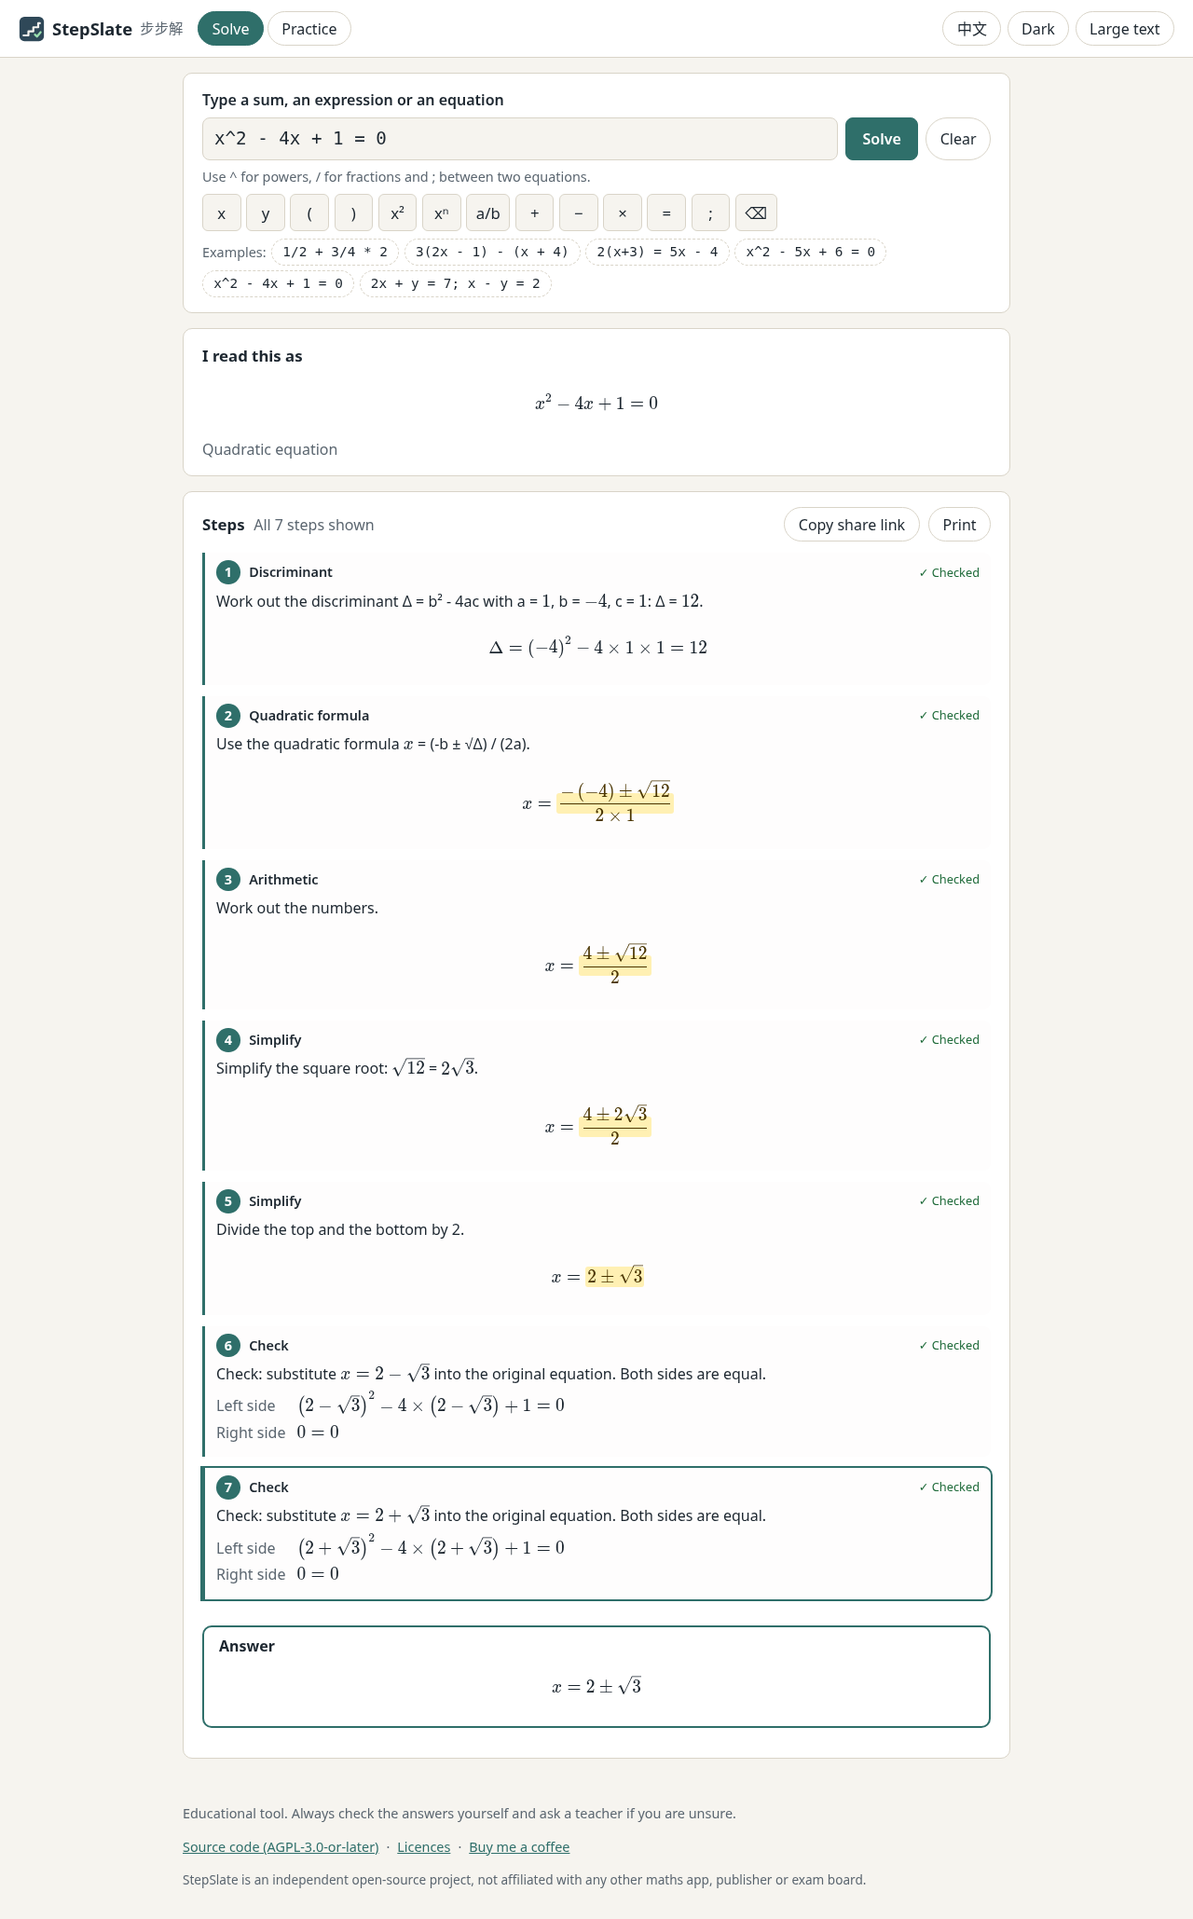
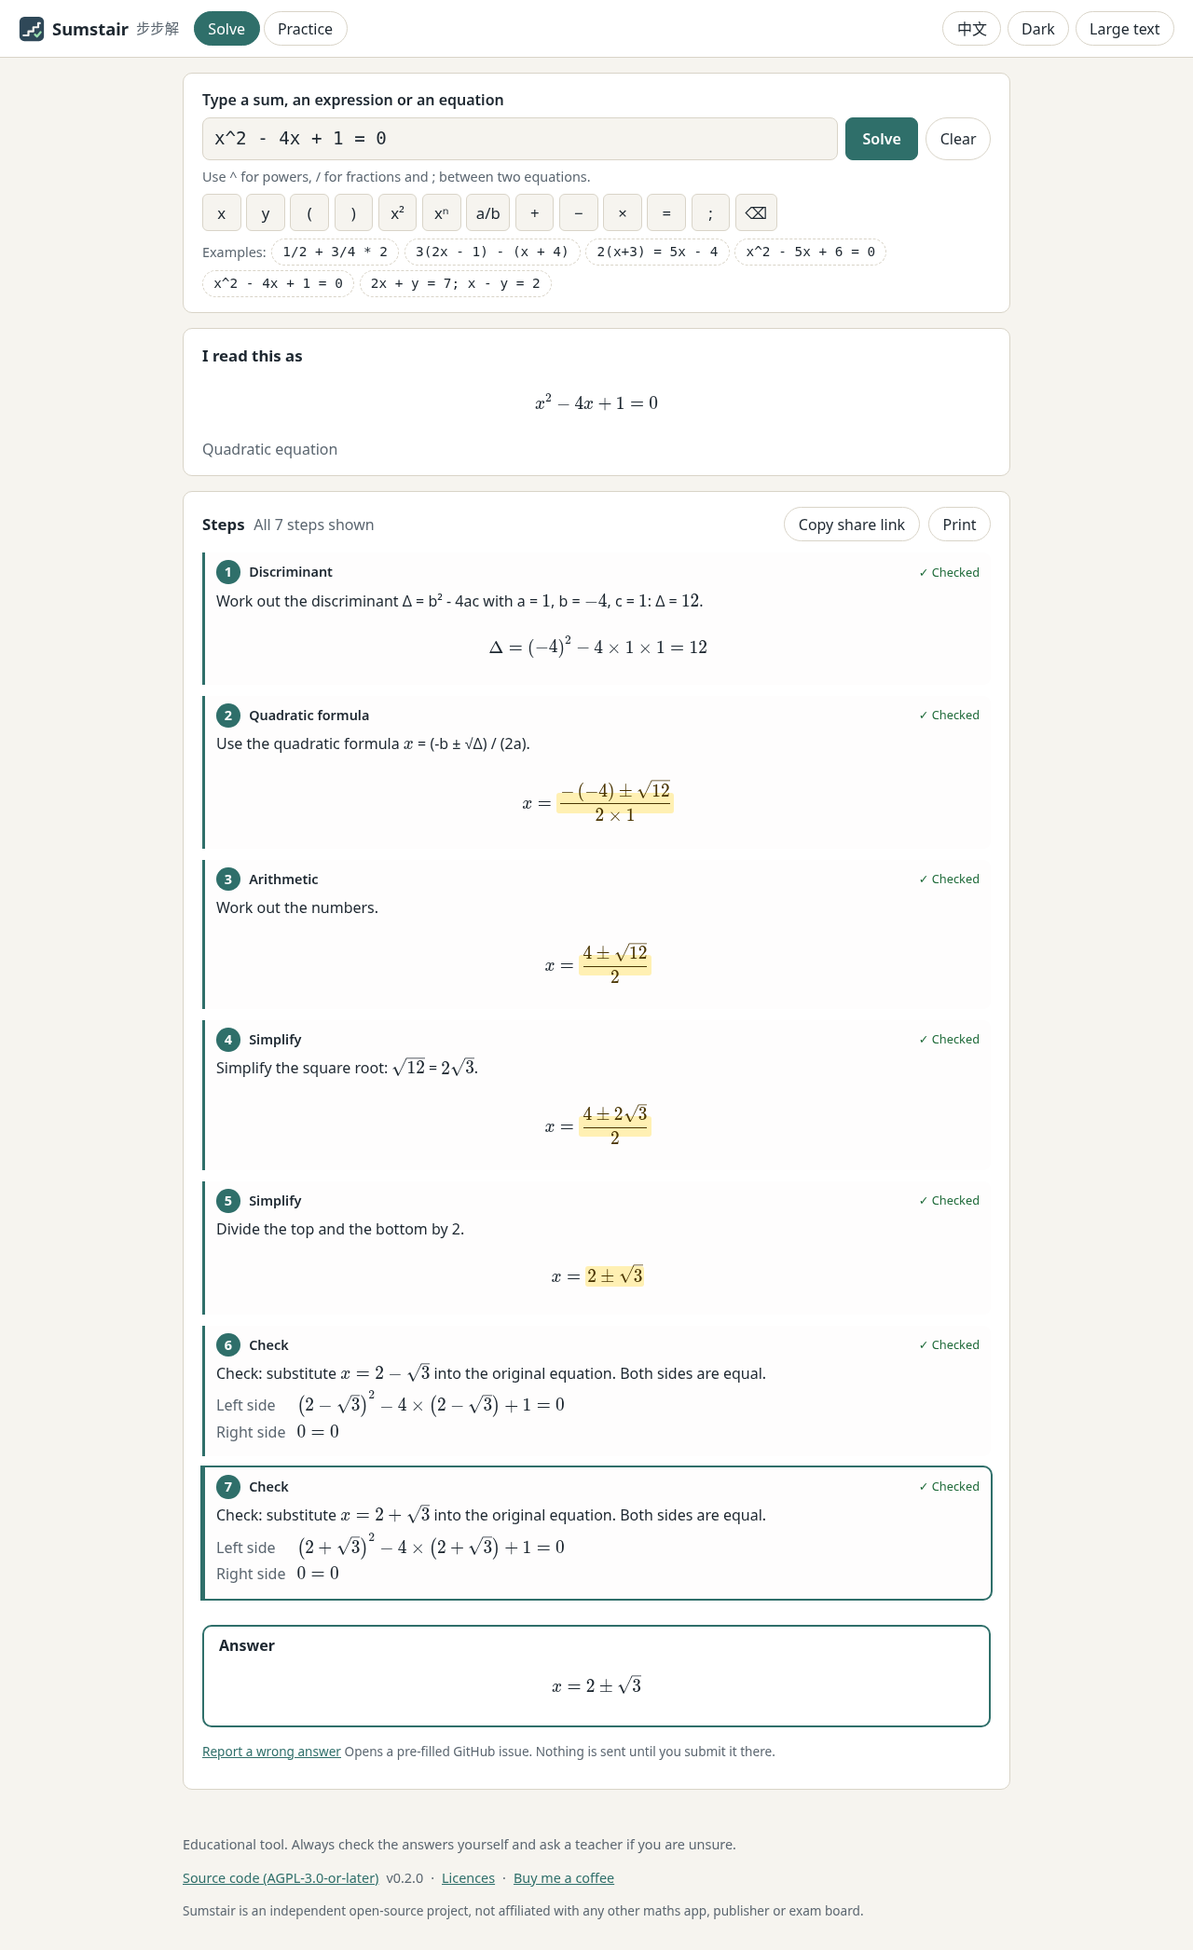
Rename StepSlate to Sumstair (步步解 unchanged)
An unrelated, announced app uses the name StepSlate, so the English name
changes to Sumstair. Renamed: repository and Pages URLs, packages
(@sumstair/*), web title, manifest, link previews, icon label, report-issue
URL, footer source link, environment variables (SUMSTAIR_*), browser storage
keys, release zip name, hygiene allowlist and all documentation. The README
explains the rename in English and Chinese. Screenshot regenerated.

diff --git a/packages/web/vite.config.ts b/packages/web/vite.config.ts
@@ -22,7 +22,7 @@ function sourceLink(): Plugin {
   const tag = `v${rootPkg.version}`;
   const url = `${rootPkg.repository.url.replace(/\.git$/, '')}/tree/${tag}`;
   return {
-    name: 'stepslate-source-link',
+    name: 'sumstair-source-link',
     transformIndexHtml(html) {
       const linked = html.replace(/(id="source-link"\s+href=")[^"]*(")/, `$1${url}$2`);
       const versioned = linked.replace(
@@ -55,7 +55,7 @@ function listFiles(dir: string): string[] {
 }
 
 /**
- * KaTeX font families that StepSlate's output actually uses (numbers, italic letters,
+ * KaTeX font families that Sumstair's output actually uses (numbers, italic letters,
  * brackets, fractions, roots, ±, Δ). Measured by rendering every golden problem and the
  * practice view; the e2e test "every KaTeX font the solver uses is pre-cached" keeps
  * this list honest. Other families stay in the build and load on demand when online.
@@ -67,7 +67,7 @@ const KATEX_FONTS_USED = /KaTeX_(Main-Regular|Math-Italic|Size[1-4]-Regular)-/;
  * - KaTeX's .ttf and .woff fonts: every browser that can run the service worker uses
  *   the .woff2 files (listed first in KaTeX's CSS), so the older formats would only
  *   triple the download for students on mobile data;
- * - .woff2 families that StepSlate never uses (see KATEX_FONTS_USED);
+ * - .woff2 families that Sumstair never uses (see KATEX_FONTS_USED);
  * - the social preview image, which only link-preview crawlers fetch.
  */
 function precached(file: string): boolean {
@@ -82,17 +82,17 @@ function precached(file: string): boolean {
  */
 function offline(): Plugin {
   return {
-    name: 'stepslate-offline',
+    name: 'sumstair-offline',
     apply: 'build',
     generateBundle(_opts, bundle) {
       this.emitFile({
         type: 'asset',
-        fileName: 'licenses/StepSlate-LICENSE.txt',
+        fileName: 'licenses/Sumstair-LICENSE.txt',
         source: readFileSync(join(here, '../../LICENSE'), 'utf8'),
       });
       const files = [
         ...Object.keys(bundle),
-        'licenses/StepSlate-LICENSE.txt',
+        'licenses/Sumstair-LICENSE.txt',
         ...listFiles(publicDir).map((p) => relative(publicDir, p).split('\\').join('/')),
       ]
         .filter((f) => !f.endsWith('.map') && precached(f))
@@ -108,7 +108,7 @@ function offline(): Plugin {
       const urls = ['./', ...unique.map((f) => `./${f}`)];
       const sw = `// SPDX-License-Identifier: AGPL-3.0-or-later
 // Generated at build time: pre-caches the whole site so it works offline.
-const CACHE = 'stepslate-${version}';
+const CACHE = 'sumstair-${version}';
 const URLS = ${JSON.stringify(urls)};
 self.addEventListener('install', (event) => {
   event.waitUntil(caches.open(CACHE).then((c) => c.addAll(URLS)).then(() => self.skipWaiting()));
@@ -116,7 +116,7 @@ self.addEventListener('install', (event) => {
 self.addEventListener('activate', (event) => {
   event.waitUntil(
     caches.keys()
-      .then((keys) => Promise.all(keys.filter((k) => k.startsWith('stepslate-') && k !== CACHE).map((k) => caches.delete(k))))
+      .then((keys) => Promise.all(keys.filter((k) => k.startsWith('sumstair-') && k !== CACHE).map((k) => caches.delete(k))))
       .then(() => self.clients.claim()),
   );
 });
@@ -144,8 +144,8 @@ export default defineConfig({
   base: './',
   plugins: [sourceLink(), offline()],
   define: {
-    __STEPSLATE_REPO__: JSON.stringify(rootPkg.repository.url.replace(/\.git$/, '')),
-    __STEPSLATE_VERSION__: JSON.stringify(`v${rootPkg.version}`),
+    __SUMSTAIR_REPO__: JSON.stringify(rootPkg.repository.url.replace(/\.git$/, '')),
+    __SUMSTAIR_VERSION__: JSON.stringify(`v${rootPkg.version}`),
   },
   build: {
     target: 'es2022',

diff --git a/packages/core/src/i18n/messages.ts b/packages/core/src/i18n/messages.ts
@@ -1,6 +1,6 @@
 // SPDX-License-Identifier: AGPL-3.0-or-later
 // User-facing strings for the engine (errors, warnings, step explanations).
-// Written originally for StepSlate. Placeholders use {name}. Every key must exist in
+// Written originally for Sumstair. Placeholders use {name}. Every key must exist in
 // both languages (enforced by i18n.test.ts).
 
 export type Lang = 'en' | 'zh-HK';
@@ -9,8 +9,8 @@ export const en = {
   // ---- parse errors ----
   'parse.empty': 'Type a problem first, for example 2(x+3)=5x-4.',
   'parse.too-long': 'That input is too long (maximum {max} characters).',
-  'parse.too-complex': 'That problem is too complex for StepSlate (maximum {max} parts).',
-  'parse.unexpected-char': 'StepSlate does not understand the character "{char}".',
+  'parse.too-complex': 'That problem is too complex for Sumstair (maximum {max} parts).',
+  'parse.unexpected-char': 'Sumstair does not understand the character "{char}".',
   'parse.unexpected-token': 'Unexpected "{text}" here.',
   'parse.unexpected-end': 'The input ends too early: something is missing after the last operator.',
   'parse.unclosed-paren': 'A bracket "(" is never closed.',
@@ -71,10 +71,10 @@ export const en = {
   'unsupported.exponent-arith':
     'In calculations, exponents must be whole numbers from -{max} to {max}. With unknowns, exponents can be 0 to 4.',
   'unsupported.degree':
-    'The degree is too high. StepSlate simplifies up to degree {max} and solves equations up to degree 2.',
+    'The degree is too high. Sumstair simplifies up to degree {max} and solves equations up to degree 2.',
   'unsupported.equation-vars':
     'One equation with {n} unknowns cannot be solved on its own. Separate two equations with ";".',
-  'unsupported.system': 'StepSlate solves systems of two linear equations in two unknowns.',
+  'unsupported.system': 'Sumstair solves systems of two linear equations in two unknowns.',
   'unsupported.no-unknown':
     'This equation has no unknown to solve for. To work out a calculation, type it without "=".',
   'unsupported.too-many-vars': 'Simplifying is supported for at most two unknowns.',
@@ -85,9 +85,9 @@ export const en = {
   'command.simplify-needs-expression':
     '"simplify" works on an expression without "=". To solve an equation, type it without "simplify" or use "solve".',
   'error.div-zero': 'The question divides by zero, which is undefined.',
-  'error.too-large': 'The numbers grow too large for StepSlate. Please try a smaller problem.',
+  'error.too-large': 'The numbers grow too large for Sumstair. Please try a smaller problem.',
   'error.unverified':
-    'StepSlate could not verify the next step, so it stops here instead of showing an unchecked step. Please report this problem.',
+    'Sumstair could not verify the next step, so it stops here instead of showing an unchecked step. Please report this problem.',
   // ---- T2 polynomials ----
   'poly.power-to-product': 'Write the power as a repeated product: {before} = {after}.',
   'poly.distribute': 'Multiply each term in the bracket by {factor}.',

diff --git a/packages/web/index.html b/packages/web/index.html
@@ -10,13 +10,13 @@
     <meta name="referrer" content="no-referrer" />
     <meta
       name="description"
-      content="StepSlate: free, offline step-by-step maths solver. Every step is checked by an exact verifier. Educational use only."
+      content="Sumstair: free, offline step-by-step maths solver. Every step is checked by an exact verifier. Educational use only."
     />
     <meta name="theme-color" content="#2f4858" />
     <!-- Link previews. The build turns ./ URLs into absolute ones (package.json "homepage"). -->
     <meta property="og:type" content="website" />
-    <meta property="og:site_name" content="StepSlate · 步步解" />
-    <meta property="og:title" content="StepSlate · 步步解 — free step-by-step maths" />
+    <meta property="og:site_name" content="Sumstair · 步步解" />
+    <meta property="og:title" content="Sumstair · 步步解 — free step-by-step maths" />
     <meta
       property="og:description"
       content="Free, offline step-by-step maths solver. Every step is checked before it is shown. No ads, no tracking, no subscription. 免費、離線的逐步解題，每一步都經驗證。"
@@ -32,7 +32,7 @@
     <meta property="og:locale" content="en_GB" />
     <meta property="og:locale:alternate" content="zh_HK" />
     <meta name="twitter:card" content="summary_large_image" />
-    <meta name="twitter:title" content="StepSlate · 步步解 — free step-by-step maths" />
+    <meta name="twitter:title" content="Sumstair · 步步解 — free step-by-step maths" />
     <meta
       name="twitter:description"
       content="Free, offline step-by-step maths solver. Every step is checked before it is shown."
@@ -40,14 +40,14 @@
     <meta name="twitter:image" content="./social-card.png" />
     <link rel="icon" href="./icon.svg" type="image/svg+xml" />
     <link rel="manifest" href="./manifest.webmanifest" />
-    <title>StepSlate · 步步解</title>
+    <title>Sumstair · 步步解</title>
   </head>
   <body>
     <a class="skip" href="#problem" data-i18n="a11y.skip">Skip to the problem box</a>
     <header class="app">
       <div class="brand">
         <img src="./icon.svg" alt="" width="28" height="28" />
-        <span>StepSlate</span>
+        <span>Sumstair</span>
         <small lang="zh-Hant">步步解</small>
       </div>
       <nav class="tabs" aria-label="Main" data-i18n-aria="nav.label">
@@ -184,7 +184,7 @@
       <p class="links">
         <a
           id="source-link"
-          href="https://github.com/Kinfxhk/stepslate"
+          href="https://github.com/Kinfxhk/sumstair"
           rel="noopener noreferrer"
           data-i18n="footer.source"
           >Source code (AGPL-3.0-or-later)</a
@@ -201,7 +201,7 @@
         >
       </p>
       <p class="muted small" data-i18n="footer.independent">
-        StepSlate is an independent open-source project, not affiliated with any other maths app,
+        Sumstair is an independent open-source project, not affiliated with any other maths app,
         publisher or exam board.
       </p>
     </footer>

diff --git a/packages/web/src/i18n.ts b/packages/web/src/i18n.ts
@@ -1,8 +1,8 @@
 // SPDX-License-Identifier: AGPL-3.0-or-later
 // UI strings (English and Traditional Chinese, Hong Kong written style). Explanations of
-// the maths steps live in @stepslate/core (i18n/messages.ts).
+// the maths steps live in @sumstair/core (i18n/messages.ts).
 
-import type { Lang } from '@stepslate/core';
+import type { Lang } from '@sumstair/core';
 
 const en = {
   'a11y.skip': 'Skip to the problem box',
@@ -22,8 +22,8 @@ const en = {
   'kbd.backspace': 'Delete',
   'examples.label': 'Examples:',
   'preview.label': 'I read this as',
-  'preview.empty': 'Type a problem above. StepSlate shows how it reads it before solving.',
-  'preview.error': 'StepSlate cannot read this yet.',
+  'preview.empty': 'Type a problem above. Sumstair shows how it reads it before solving.',
+  'preview.error': 'Sumstair cannot read this yet.',
   'preview.type.T1': 'Arithmetic',
   'preview.type.T2': 'Simplify an expression',
   'preview.type.T3': 'Linear equation',
@@ -54,7 +54,7 @@ const en = {
   'footer.licences': 'Licences',
   'footer.coffee': 'Buy me a coffee',
   'footer.independent':
-    'StepSlate is an independent open-source project, not affiliated with any other maths app, publisher or exam board.',
+    'Sumstair is an independent open-source project, not affiliated with any other maths app, publisher or exam board.',
   'rule.decimals': 'Decimals to fractions',
   'rule.arithmetic': 'Arithmetic',
   'rule.expand': 'Expand',
@@ -97,7 +97,7 @@ const en = {
   'practice.reveal': 'Show full solution',
   'practice.correct': 'Correct!',
   'practice.wrong': 'Not quite. Try again or look at the next step.',
-  'practice.unreadable': 'StepSlate cannot read this answer. Check the format.',
+  'practice.unreadable': 'Sumstair cannot read this answer. Check the format.',
   'practice.noHint': 'No more steps: compare with the full solution.',
   'practice.progress': 'Correct: {correct} of {total} attempted',
   'practice.clear': 'Clear progress',

diff --git a/packages/cli/src/serve.ts b/packages/cli/src/serve.ts
@@ -1,6 +1,6 @@
 // SPDX-License-Identifier: AGPL-3.0-or-later
 // Tiny static file server for the built web UI (packages/web/dist). Listens on loopback
-// by default. Usage: npm start   (or STEPSLATE_PORT=4873 npm run serve)
+// by default. Usage: npm start   (or SUMSTAIR_PORT=4873 npm run serve)
 
 import { createReadStream, existsSync, statSync } from 'node:fs';
 import { createServer } from 'node:http';
@@ -8,10 +8,10 @@ import { extname, join, normalize, resolve, sep } from 'node:path';
 import { fileURLToPath } from 'node:url';
 
 const root = resolve(
-  process.env.STEPSLATE_DIST ?? fileURLToPath(new URL('../../web/dist', import.meta.url)),
+  process.env.SUMSTAIR_DIST ?? fileURLToPath(new URL('../../web/dist', import.meta.url)),
 );
-const port = Number(process.env.STEPSLATE_PORT ?? 4873);
-const host = process.env.STEPSLATE_HOST ?? '127.0.0.1';
+const port = Number(process.env.SUMSTAIR_PORT ?? 4873);
+const host = process.env.SUMSTAIR_HOST ?? '127.0.0.1';
 
 const TYPES: Record<string, string> = {
   '.html': 'text/html; charset=utf-8',
@@ -80,7 +80,5 @@ const server = createServer((req, res) => {
 });
 
 server.listen(port, host, () => {
-  console.info(
-    `StepSlate is running at http://${host === '0.0.0.0' ? '127.0.0.1' : host}:${port}/`,
-  );
+  console.info(`Sumstair is running at http://${host === '0.0.0.0' ? '127.0.0.1' : host}:${port}/`);
 });

diff --git a/e2e/solve.spec.ts b/e2e/solve.spec.ts
@@ -63,7 +63,7 @@ test('footer links to the source of this exact version (AGPL section 13)', async
   const href = await page.locator('#source-link').getAttribute('href');
   const version = (await page.locator('#app-version').textContent())?.trim();
   expect(version).toMatch(/^v\d+\.\d+\.\d+/);
-  expect(href).toBe(`https://github.com/Kinfxhk/stepslate/tree/${version}`);
+  expect(href).toBe(`https://github.com/Kinfxhk/sumstair/tree/${version}`);
 });
 
 test('link previews: Open Graph / Twitter tags and a same-site 1200×630 image', async ({
@@ -89,7 +89,7 @@ test('report link: pre-filled GitHub issue, opened only by the user', async ({ p
   const link = page.locator('#report-link');
   await expect(link).toBeVisible();
   const href = new URL((await link.getAttribute('href'))!);
-  expect(`${href.origin}${href.pathname}`).toBe('https://github.com/Kinfxhk/stepslate/issues/new');
+  expect(`${href.origin}${href.pathname}`).toBe('https://github.com/Kinfxhk/sumstair/issues/new');
   expect(href.searchParams.get('template')).toBe('wrong-answer.yml');
   expect(href.searchParams.get('problem')).toBe('x^2-5x+6=0');
   expect(href.searchParams.get('version')).toMatch(/^v\d+\.\d+\.\d+/);

diff --git a/packages/web/public/licenses/index.html b/packages/web/public/licenses/index.html
@@ -5,13 +5,13 @@
     <meta name="viewport" content="width=device-width, initial-scale=1.0" />
     <meta http-equiv="Content-Security-Policy" content="default-src 'self'" />
     <meta name="referrer" content="no-referrer" />
-    <title>StepSlate · Licences</title>
+    <title>Sumstair · Licences</title>
   </head>
   <body>
     <h1>Licences</h1>
     <p>
-      StepSlate is free software under the GNU Affero General Public License, version 3 or (at
-      your option) any later version: <a href="./StepSlate-LICENSE.txt">full licence text</a>.
+      Sumstair is free software under the GNU Affero General Public License, version 3 or (at
+      your option) any later version: <a href="./Sumstair-LICENSE.txt">full licence text</a>.
       If you run a modified version for others over a network, you must offer them its source
       code (AGPL section 13).
     </p>
@@ -19,6 +19,6 @@
     <ul>
       <li>KaTeX (maths typesetting and its fonts), MIT licence: <a href="./KaTeX-LICENSE.txt">licence text</a>.</li>
     </ul>
-    <p><a href="../">Back to StepSlate</a></p>
+    <p><a href="../">Back to Sumstair</a></p>
   </body>
 </html>

diff --git a/packages/web/src/main.ts b/packages/web/src/main.ts
@@ -1,8 +1,8 @@
 // SPDX-License-Identifier: AGPL-3.0-or-later
-// StepSlate web entry: settings, language, views, offline support.
+// Sumstair web entry: settings, language, views, offline support.
 
 import './styles.css';
-import type { Lang } from '@stepslate/core';
+import type { Lang } from '@sumstair/core';
 import { UI, ui, type UiKey } from './i18n';
 import { loadSettings, saveSettings } from './settings';
 import { SolveView } from './solve-view';
@@ -24,7 +24,7 @@ function applyI18n(lang: Lang): void {
   const toggle = document.getElementById('lang-toggle')!;
   toggle.textContent = ui(lang, 'settings.lang');
   toggle.setAttribute('lang', lang === 'en' ? 'zh-Hant' : 'en');
-  document.title = lang === 'zh-HK' ? '步步解 · StepSlate' : 'StepSlate · 步步解';
+  document.title = lang === 'zh-HK' ? '步步解 · Sumstair' : 'Sumstair · 步步解';
 }
 
 function applySettings(): void {

diff --git a/packages/web/src/solve-view.ts b/packages/web/src/solve-view.ts
@@ -13,7 +13,7 @@ import {
   type Lang,
   type Solution,
   type State,
-} from '@stepslate/core';
+} from '@sumstair/core';
 import { ui } from './i18n';
 import { explanationElement, mathElement, renderMath } from './math';
 import { hashForProblem, problemFromHash } from './share';
@@ -265,10 +265,7 @@ export class SolveView {
     if (!keepScroll) $('share-status').textContent = '';
     // A plain link: GitHub's form opens only when the user clicks, and nothing is sent
     // until they submit it there.
-    $('report-link').setAttribute(
-      'href',
-      reportUrl(__STEPSLATE_REPO__, __STEPSLATE_VERSION__, sol),
-    );
+    $('report-link').setAttribute('href', reportUrl(__SUMSTAIR_REPO__, __SUMSTAIR_VERSION__, sol));
   }
 
   private renderAnswer(sol: Solution): void {

diff --git a/packages/web/src/report.ts b/packages/web/src/report.ts
@@ -1,9 +1,9 @@
 // SPDX-License-Identifier: AGPL-3.0-or-later
-// "Report a wrong answer": build a pre-filled GitHub "new issue" link. StepSlate sends
+// "Report a wrong answer": build a pre-filled GitHub "new issue" link. Sumstair sends
 // nothing itself: the link only opens GitHub's form, where the user reads, edits and
 // submits (or abandons) the report. No tracking, no automatic sending.
 
-import { solutionText, type Solution } from '@stepslate/core';
+import { solutionText, type Solution } from '@sumstair/core';
 
 /** Issue form in .github/ISSUE_TEMPLATE/; its field ids match the parameters below. */
 export const REPORT_TEMPLATE = 'wrong-answer.yml';

diff --git a/e2e/practice.spec.ts b/e2e/practice.spec.ts
@@ -32,7 +32,7 @@ test('practice: wrong answer, hint, right answer, progress saved and cleared', a
   await expect(page.locator('#practice-progress')).toContainText('Correct: 1 of 1');
   await page.locator('#practice-clear').click();
   await expect(page.locator('#practice-progress')).toContainText('Correct: 0 of 0');
-  expect(await page.evaluate(() => localStorage.getItem('stepslate.practice.v1'))).toBeNull();
+  expect(await page.evaluate(() => localStorage.getItem('sumstair.practice.v1'))).toBeNull();
 });
 
 test('practice: every type generates a question; full solution can be revealed', async ({

diff --git a/packages/web/src/settings.ts b/packages/web/src/settings.ts
@@ -1,7 +1,7 @@
 // SPDX-License-Identifier: AGPL-3.0-or-later
 // Display settings, stored only in this browser.
 
-import type { Lang } from '@stepslate/core';
+import type { Lang } from '@sumstair/core';
 
 export interface Settings {
   lang: Lang;
@@ -9,7 +9,7 @@ export interface Settings {
   large: boolean;
 }
 
-const KEY = 'stepslate.settings.v1';
+const KEY = 'sumstair.settings.v1';
 
 function defaults(): Settings {
   const zh = (navigator.languages ?? [navigator.language]).some((l) => /^zh/i.test(l));
